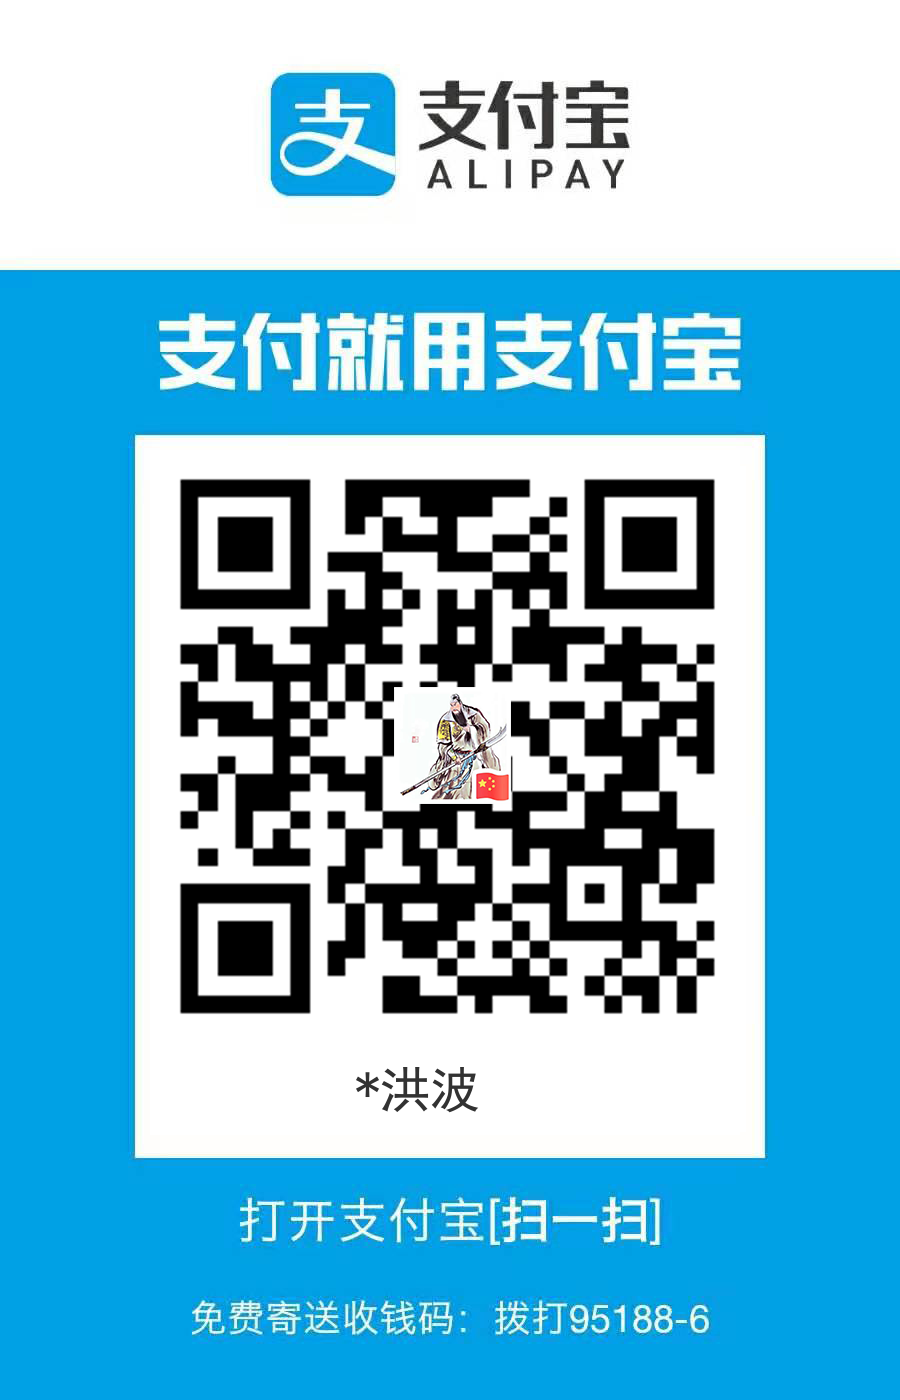
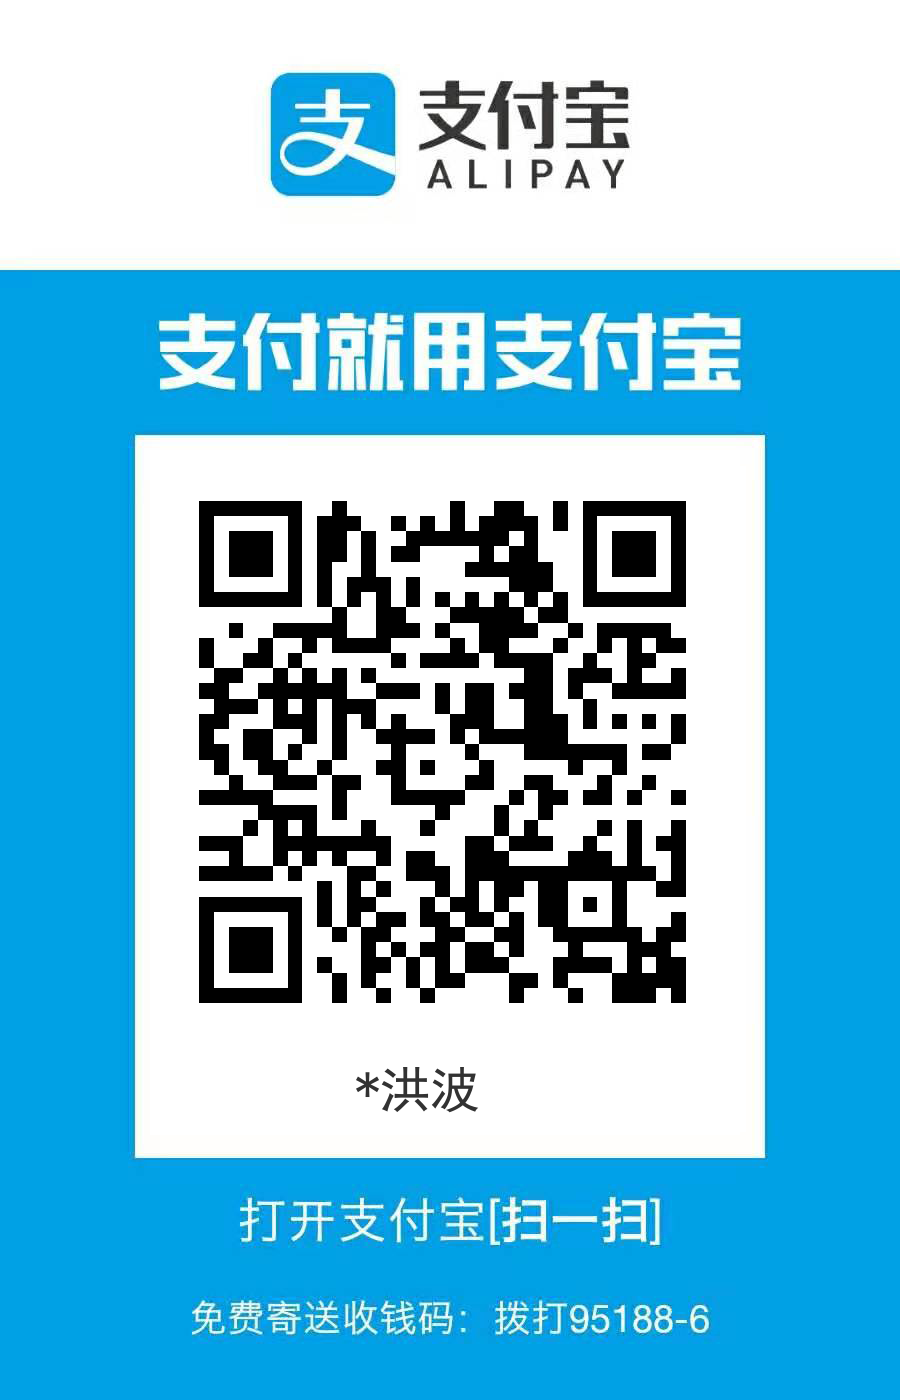
erweima

Changed region(s): [[0.1867, 0.3379, 0.8089, 0.7371]]

diff --git a/小爬虫/转账码生成/银行卡转账码/spider.py b/小爬虫/转账码生成/银行卡转账码/spider.py
@@ -147,14 +147,14 @@ class Spider:
     def run(self):
         # 隐藏卡号url
         # cardID 隐藏卡号 获取方法  https://zhuanlan.zhihu.com/p/65495172
-        content = ['622202***7068', 'ICBC', '毕洪波', '中国工商银行', '1910281494418964693']
-        _url = f'https://www.alipay.com/?appId=09999988&actionType=toCard&sourceId=bill&cardNo={content[0]}&' \
-               f'bankAccount={content[2]}&money=&amount=&bankMark={content[1]}&bankName={content[3]}&cardIndex={content[4]}&cardNoHidden=true&cardChannel=HISTORY_CARD&orderSource=from'
-        print(_url)
+        # content = ['622202***7068', 'ICBC', '毕洪波', '中国工商银行', '1910281494418964693']
+        # _url = f'https://www.alipay.com/?appId=09999988&actionType=toCard&sourceId=bill&cardNo={content[0]}&' \
+        #        f'bankAccount={content[2]}&money=&amount=&bankMark={content[1]}&bankName={content[3]}&cardIndex={content[4]}&cardNoHidden=true&cardChannel=HISTORY_CARD&orderSource=from'
+        # print(_url)
         # 普通转账url
-        # content = self.read_txt()
-        # _url = 'https://www.alipay.com/?appId=09999988&actionType=toCard&sourceId=bill&cardNo={}&bankAccount={}&' \
-        #        'money=&amount=&bankMark={}&bankName={}'.format(content[1], content[0], content[3], content[4])
+        content = self.read_txt()
+        _url = 'https://www.alipay.com/?appId=09999988&actionType=toCard&sourceId=bill&cardNo={}&bankAccount={}&' \
+               'money=&amount=&bankMark={}&bankName={}'.format(content[1], content[0], content[3], content[4])
 
         # 长链接转换短链接
         short_link = self.get_url(_url)
